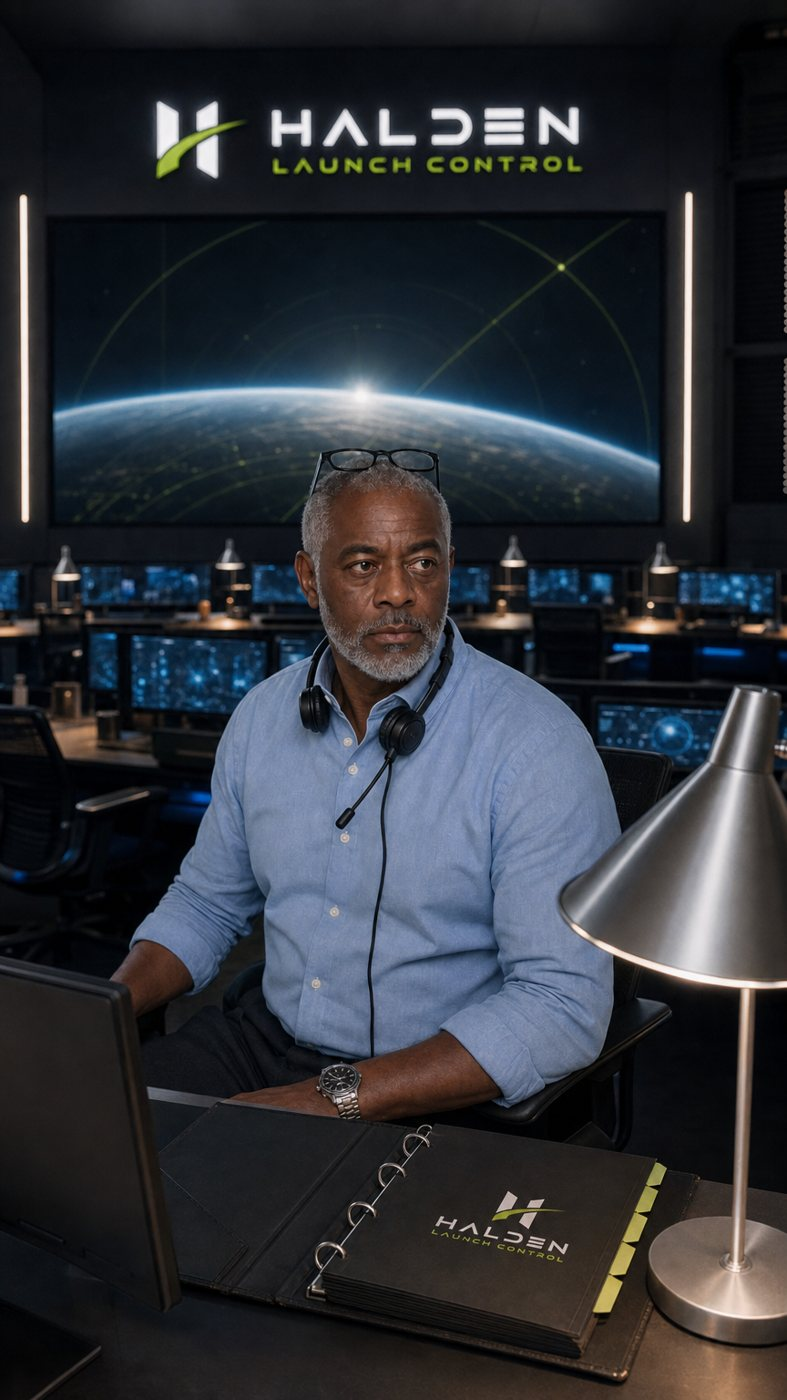
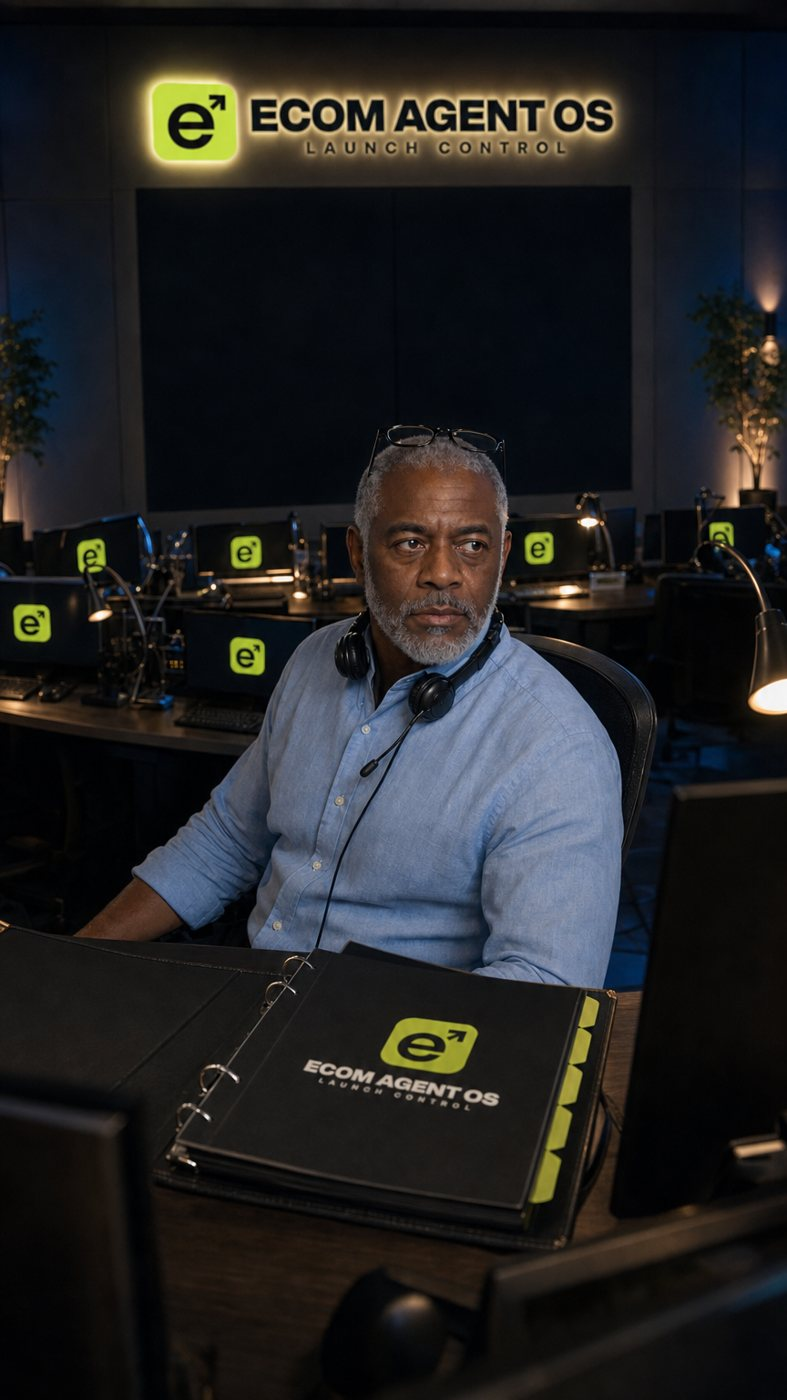
Concept 6: launch control is now Ecom Agent OS

diff --git a/c6h/index.html b/c6h/index.html
@@ -7,7 +7,7 @@
 .card h3{margin:0 0 6px}.muted{color:var(--muted)}table{width:100%;border-collapse:collapse;background:var(--card);border-radius:12px;overflow:hidden}
 td,th{border-bottom:1px solid var(--line);padding:8px 10px;vertical-align:top;text-align:left;font-size:13.5px}th{font-size:12px;color:var(--muted)}
 .sheet{display:grid;grid-template-columns:repeat(auto-fill,minmax(150px,1fr));gap:10px}.sheet figure{margin:0}.sheet img{width:100%;border-radius:8px;display:block}
-.sheet figcaption{font-size:12px;color:var(--muted)}</style></head><body><div class="wrap"><span class="chip">For approval</span><h1>Go For Launch</h1><p>Two minutes to Black Friday, a launch control room runs a go/no-go poll where every station is one of the agents, and the founder gives the final go.</p>
+.sheet figcaption{font-size:12px;color:var(--muted)}</style></head><body><div class="wrap"><span class="chip">For approval</span><h1>Go For Launch</h1><p>Two minutes to Black Friday, the Ecom Agent OS launch control room runs a go/no-go poll where every station is one of the agents, and the founder gives the final go.</p>
 <p class="muted">61.5 s with the outro · 109 words of dialogue · 4 generation units · estimated $35.05</p>
 <h2>Rule check</h2><p><b>Open issues</b></p><ul><li>none</li></ul><p><b>Warnings</b></p><ul><li>none</li></ul>
 <h2>Generation units</h2><div class="grid"><div class='card'><h3>R1: launch control</h3><p>hook, setup and the whole go/no-go poll (9 lines, brand-free)</p><p class='muted'>30 s, 2 takes, starts at 0 s</p></div><div class='card'><h3>W: launch control</h3><p>Walt&#x27;s Brand Brain line (product term, short unit, 3 takes)</p><p class='muted'>6 s, 3 takes, starts at 30 s</p></div><div class='card'><h3>R2: launch control</h3><p>the decision, the key, the countdown, the launch, the reaction</p><p class='muted'>16 s, 2 takes, starts at 35.5 s</p></div><div class='card'><h3>E: launch control</h3><p>the button</p><p class='muted'>6 s, 2 takes, starts at 51.5 s</p></div></div>
